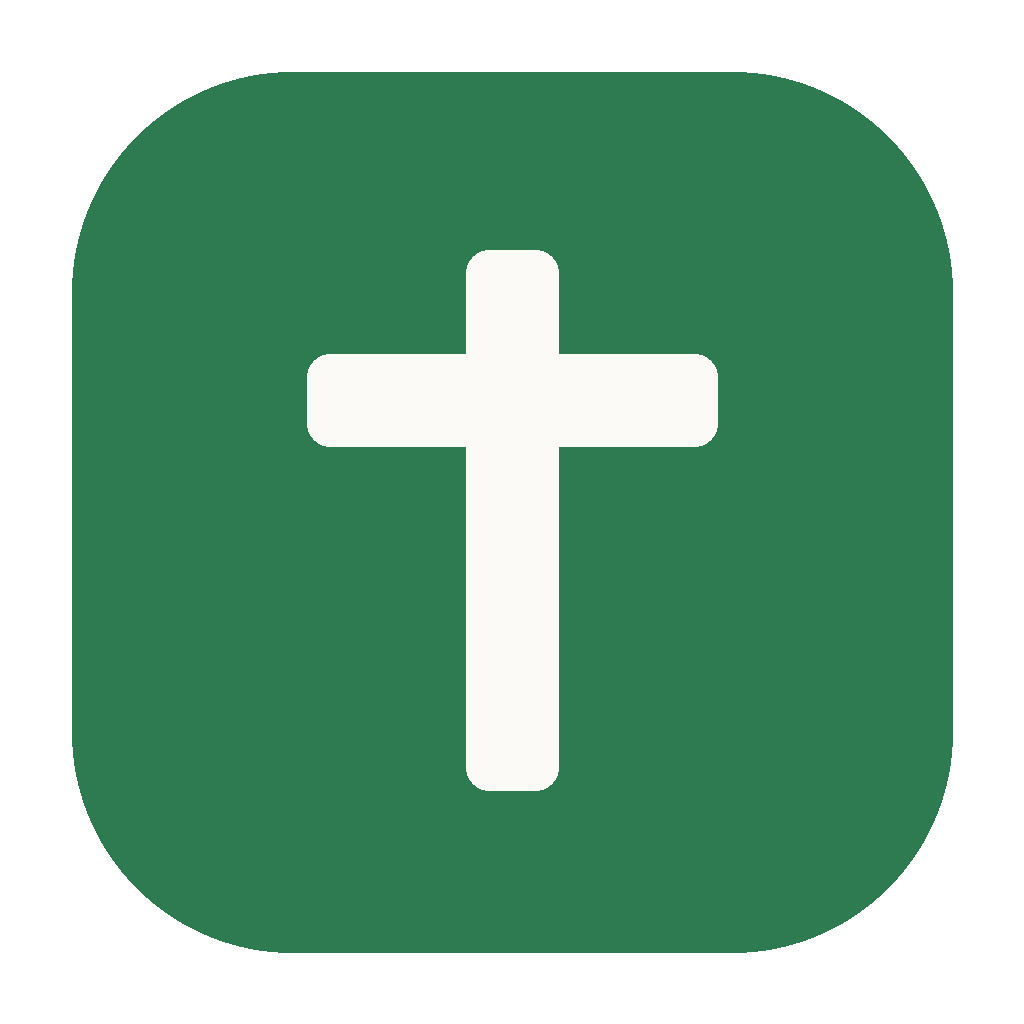
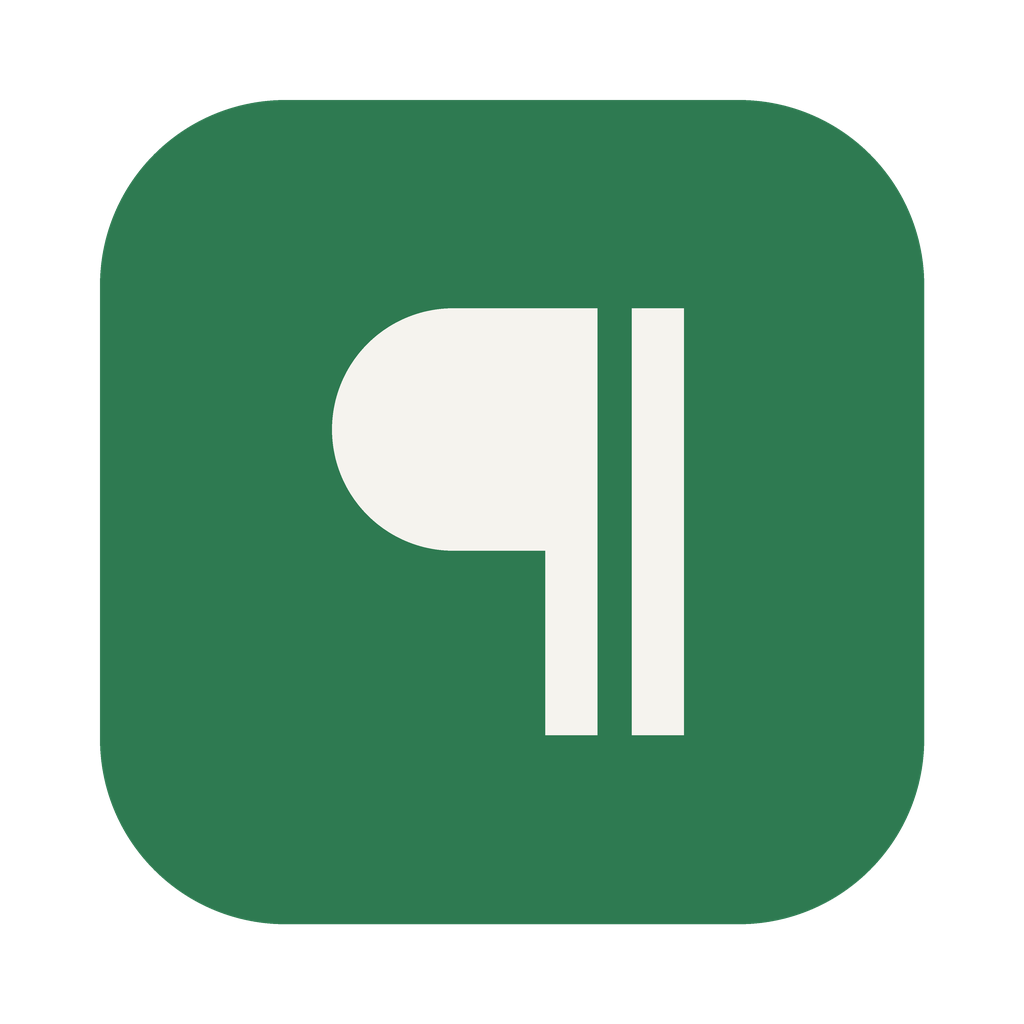
feat(marca): ícone e marca do Proper, o pilcrow das rubricas
A marca escolhida é o sinal ¶ dos livros de oração, em papel sobre o
verde litúrgico. make-icon.py gera icon.png (macOS, convertido em .icns
pelo electron-builder), icon.ico (Windows) e os PNGs do Linux a partir
da mesma geometria do SVG, com ajuste óptico de 1 % para o bojo não
parecer alto. O "P" do trilho e da tela Sobre virou a marca, que
acompanha a cor litúrgica do dia.

Claude-Session: https://claude.ai/code/session_01NddpYVr3KbPuWc3or8R7uW

Changed region(s): [[0.0625, 0.0625, 0.9375, 0.9375], [0.2812, 0.2188, 0.7188, 0.7812]]

diff --git a/apps/desktop/src/renderer/src/views/preferencias/AboutSection.vue b/apps/desktop/src/renderer/src/views/preferencias/AboutSection.vue
@@ -18,7 +18,11 @@ import LogsSection from './LogsSection.vue'
 import { openExternal } from './composables'
 import { normalizeApiBaseURL, validateApiBaseURL } from './format'
 
-const PLATFORM_NAMES: Record<AppInfo['platform'], string> = { darwin: 'macOS', win32: 'Windows', linux: 'Linux' }
+const PLATFORM_NAMES: Record<AppInfo['platform'], string> = {
+  darwin: 'macOS',
+  win32: 'Windows',
+  linux: 'Linux',
+}
 
 const app = useAppStore()
 const toasts = useToasts()
@@ -30,7 +34,9 @@ const apiError = ref<string | null>(null)
 let unsubscribe: (() => void) | null = null
 
 const legalBase = computed(() => (app.account.apiBaseURL || PREGAR_API_DEFAULT_URL).replace(/\/+$/, ''))
-const apiChanged = computed(() => normalizeApiBaseURL(apiDraft.value) !== normalizeApiBaseURL(app.settings.apiBaseURL))
+const apiChanged = computed(
+  () => normalizeApiBaseURL(apiDraft.value) !== normalizeApiBaseURL(app.settings.apiBaseURL),
+)
 const updateText = computed(() => {
   const status = update.value
   switch (status.state) {
@@ -94,12 +100,21 @@ onBeforeUnmount(() => unsubscribe?.())
 <template>
   <div class="section-stack">
     <div class="identity">
-      <div class="identity__mark" aria-hidden="true">P</div>
+      <svg class="identity__mark" viewBox="0 0 100 100" aria-hidden="true">
+        <rect width="100" height="100" rx="25" style="fill: var(--accent)" />
+        <g style="fill: var(--accent-contrast)" transform="translate(2.5 -1)">
+          <path d="M62 14H38a21 21 0 0 0 0 42h24z" />
+          <rect x="54" y="14" width="9" height="74" />
+          <rect x="69" y="14" width="9" height="74" />
+        </g>
+      </svg>
       <div>
         <h3 class="identity__name">Proper</h3>
         <p class="identity__version selectable">
           Versão {{ info?.version ?? '—' }}
-          <template v-if="info">· {{ PLATFORM_NAMES[info.platform] }} {{ info.arch }} · Electron {{ info.electron }}</template>
+          <template v-if="info"
+            >· {{ PLATFORM_NAMES[info.platform] }} {{ info.arch }} · Electron {{ info.electron }}</template
+          >
         </p>
         <p class="identity__tagline">Preparação de sermões com o calendário litúrgico. Caminho Anglicano.</p>
       </div>
@@ -145,13 +160,23 @@ onBeforeUnmount(() => unsubscribe?.())
     <PrefGroup label="Privacidade">
       <div class="links">
         <p class="links__text">
-          Seus sermões, a Biblioteca e as preferências ficam neste computador. Com as suas chaves, o texto vai direto ao provedor de IA; com a
-          assinatura, passa pelo servidor do Proper só para a revisão e não fica guardado.
+          Seus sermões, a Biblioteca e as preferências ficam neste computador. Com as suas chaves, o texto vai
+          direto ao provedor de IA; com a assinatura, passa pelo servidor do Proper só para a revisão e não
+          fica guardado.
         </p>
         <div class="links__row">
-          <PButton variant="link" compact @click="openExternal(`${legalBase}/legal/privacidade`)">Política de privacidade <ExternalLink :size="11" aria-hidden="true" /></PButton>
-          <PButton variant="link" compact @click="openExternal(`${legalBase}/legal/termos`)">Termos de uso <ExternalLink :size="11" aria-hidden="true" /></PButton>
-          <PButton v-if="info" variant="link" compact @click="invoke('app:showItemInFolder', { path: info.userDataPath })">
+          <PButton variant="link" compact @click="openExternal(`${legalBase}/legal/privacidade`)"
+            >Política de privacidade <ExternalLink :size="11" aria-hidden="true"
+          /></PButton>
+          <PButton variant="link" compact @click="openExternal(`${legalBase}/legal/termos`)"
+            >Termos de uso <ExternalLink :size="11" aria-hidden="true"
+          /></PButton>
+          <PButton
+            v-if="info"
+            variant="link"
+            compact
+            @click="invoke('app:showItemInFolder', { path: info.userDataPath })"
+          >
             Pasta de dados do Proper <FolderOpen :size="11" aria-hidden="true" />
           </PButton>
         </div>
@@ -168,7 +193,9 @@ onBeforeUnmount(() => unsubscribe?.())
     <details class="advanced">
       <summary>Avançado</summary>
       <div class="advanced__body">
-        <Notice tone="warning" compact>Só mude o endereço se o suporte do Proper pedir. A conta e a assinatura usam este servidor.</Notice>
+        <Notice tone="warning" compact
+          >Só mude o endereço se o suporte do Proper pedir. A conta e a assinatura usam este servidor.</Notice
+        >
         <form class="advanced__form" novalidate @submit.prevent="saveApi">
           <label for="api-base">Endereço da API do Proper</label>
           <div class="advanced__inline">
@@ -182,10 +209,14 @@ onBeforeUnmount(() => unsubscribe?.())
               aria-describedby="api-base-help"
             />
             <PButton type="submit" :disabled="!apiChanged">Salvar</PButton>
-            <PButton variant="ghost" :disabled="!app.settings.apiBaseURL" @click="resetApi">Usar o padrão</PButton>
+            <PButton variant="ghost" :disabled="!app.settings.apiBaseURL" @click="resetApi"
+              >Usar o padrão</PButton
+            >
           </div>
           <span v-if="apiError" id="api-base-help" class="advanced__error" role="alert">{{ apiError }}</span>
-          <span v-else id="api-base-help" class="advanced__hint">Vazio usa {{ PREGAR_API_DEFAULT_URL }}. Precisa começar com https://.</span>
+          <span v-else id="api-base-help" class="advanced__hint"
+            >Vazio usa {{ PREGAR_API_DEFAULT_URL }}. Precisa começar com https://.</span
+          >
         </form>
       </div>
     </details>
@@ -201,14 +232,7 @@ onBeforeUnmount(() => unsubscribe?.())
 .identity__mark {
   width: 56px;
   height: 56px;
-  border-radius: 14px;
-  display: grid;
-  place-items: center;
-  font-family: var(--font-serif);
-  font-size: 30px;
-  font-weight: 600;
-  color: var(--accent-contrast);
-  background: var(--accent);
+  flex: none;
 }
 .identity__name {
   margin: 0;

diff --git a/apps/desktop/src/renderer/src/views/mesa/AppRail.vue b/apps/desktop/src/renderer/src/views/mesa/AppRail.vue
@@ -77,7 +77,16 @@ function open(kind: WindowKind): void {
 
 <template>
   <nav class="rail" :class="{ 'rail--compact': compact }" aria-label="Áreas do Proper" data-tour="rail">
-    <div class="rail__mark drag-region" aria-hidden="true"><span class="serif">P</span></div>
+    <div class="rail__mark drag-region" aria-hidden="true">
+      <svg class="rail__badge" viewBox="0 0 100 100" aria-hidden="true">
+        <rect width="100" height="100" rx="30" style="fill: var(--accent)" />
+        <g style="fill: var(--accent-contrast)" transform="translate(2.5 -1)">
+          <path d="M62 14H38a21 21 0 0 0 0 42h24z" />
+          <rect x="54" y="14" width="9" height="74" />
+          <rect x="69" y="14" width="9" height="74" />
+        </g>
+      </svg>
+    </div>
     <button
       v-for="area in AREAS"
       :key="area.kind"
@@ -202,22 +211,16 @@ function open(kind: WindowKind): void {
   margin-bottom: 8px;
   padding-top: var(--window-controls-mesa-inset, 0px);
 }
-.rail__mark span {
+/* A marca do Proper: o pilcrow das rubricas, em papel sobre a cor litúrgica do dia. */
+.rail__badge {
   width: 30px;
   height: 30px;
-  border-radius: 9px;
-  display: grid;
-  place-items: center;
-  font-size: 17px;
-  font-weight: 600;
-  color: var(--accent-contrast);
-  background: var(--accent);
-  transition: background 0.3s;
+  display: block;
+  transition: fill 0.3s;
 }
-.rail--compact .rail__mark span {
+.rail--compact .rail__badge {
   width: 28px;
   height: 28px;
-  font-size: 16px;
 }
 .rail__item {
   width: 56px;

diff --git a/apps/desktop/resources/make-icon.py b/apps/desktop/resources/make-icon.py
@@ -1,32 +1,63 @@
-"""Gera os ícones do app (PNG 1024, ICO para Windows e PNGs por tamanho para Linux)."""
+"""Gera os ícones do app a partir da marca do Proper: o pilcrow (¶), o sinal das rubricas dos
+livros de oração, em papel sobre o verde litúrgico. Saída: icon.png (1024, usado no macOS, onde o
+electron-builder converte para .icns), icon.ico (Windows) e icons/<n>x<n>.png (Linux).
+
+A geometria é a mesma do SVG em AppRail.vue e AboutSection.vue (caixa de 100 unidades):
+bojo = retângulo (38,14)-(62,56) + semidisco à esquerda com centro (38,35) e raio 21;
+hastes = (54,14)-(63,88) e (69,14)-(78,88). Desenha em 4096 px e reduz, para bordas limpas.
+
+Uso: python3 make-icon.py   (precisa do Pillow)
+"""
 from PIL import Image, ImageDraw
 import os
 
 SIZE = 1024
+SUPERSAMPLE = 4
 GREEN = (46, 122, 81, 255)
-PAPER = (251, 250, 247, 255)
+PAPER = (245, 243, 238, 255)
 
-def draw(size: int) -> Image.Image:
-    scale = size / SIZE
-    image = Image.new('RGBA', (size, size), (0, 0, 0, 0))
+# Modelo da Apple para ícones do macOS: tile de 824 px centrado na tela de 1024, cantos de 185 px.
+TILE = 824
+RADIUS = 185
+MARK_SCALE = 0.70  # a caixa de 100 unidades da marca ocupa 70 % do tile
+
+
+def draw_master() -> Image.Image:
+    big = SIZE * SUPERSAMPLE
+    image = Image.new('RGBA', (big, big), (0, 0, 0, 0))
     canvas = ImageDraw.Draw(image)
-    margin = 72 * scale
-    radius = 220 * scale
-    canvas.rounded_rectangle([margin, margin, size - margin, size - margin], radius=radius, fill=GREEN)
-    # Cruz latina centralizada.
-    bar = 92 * scale
-    vertical_top, vertical_bottom = 250 * scale, 790 * scale
-    horizontal_y = 400 * scale
-    horizontal_half = 205 * scale
-    cx = size / 2
-    canvas.rounded_rectangle([cx - bar / 2, vertical_top, cx + bar / 2, vertical_bottom], radius=bar / 4, fill=PAPER)
-    canvas.rounded_rectangle([cx - horizontal_half, horizontal_y - bar / 2, cx + horizontal_half, horizontal_y + bar / 2], radius=bar / 4, fill=PAPER)
-    return image
+    s = SUPERSAMPLE
+    margin = (SIZE - TILE) / 2 * s
+    canvas.rounded_rectangle([margin, margin, big - margin, big - margin], radius=RADIUS * s, fill=GREEN)
 
-here = os.path.dirname(os.path.abspath(__file__))
-resources = here
-os.makedirs(os.path.join(resources, 'icons'), exist_ok=True)
-draw(SIZE).save(os.path.join(resources, 'icon.png'))
-draw(256).save(os.path.join(resources, 'icon.ico'), sizes=[(16, 16), (24, 24), (32, 32), (48, 48), (64, 64), (128, 128), (256, 256)])
-for size in (16, 32, 48, 64, 128, 256, 512):
-    draw(size).save(os.path.join(resources, 'icons', f'{size}x{size}.png'))
+    unit = TILE * MARK_SCALE / 100 * s
+    # Centraliza a caixa do glifo (x 17..78, y 14..88) no tile e aplica um ajuste óptico pequeno:
+    # o bojo deixa a massa da marca acima e à direita do centro, então ela desce 1 % e vai 0,4 % à esquerda.
+    ox = margin + (TILE * s - 100 * unit) / 2 + 1.8 * unit
+    oy = margin + (TILE * s - 100 * unit) / 2 + 0.7 * unit
+
+    def box(x1, y1, x2, y2):
+        return [ox + x1 * unit, oy + y1 * unit, ox + x2 * unit, oy + y2 * unit]
+
+    canvas.rectangle(box(38, 14, 62, 56), fill=PAPER)
+    canvas.ellipse(box(17, 14, 59, 56), fill=PAPER)
+    canvas.rectangle(box(54, 14, 63, 88), fill=PAPER)
+    canvas.rectangle(box(69, 14, 78, 88), fill=PAPER)
+    return image.resize((SIZE, SIZE), Image.LANCZOS)
+
+
+def main() -> None:
+    here = os.path.dirname(os.path.abspath(__file__))
+    os.makedirs(os.path.join(here, 'icons'), exist_ok=True)
+    master = draw_master()
+    master.save(os.path.join(here, 'icon.png'))
+    master.resize((256, 256), Image.LANCZOS).save(
+        os.path.join(here, 'icon.ico'),
+        sizes=[(16, 16), (24, 24), (32, 32), (48, 48), (64, 64), (128, 128), (256, 256)],
+    )
+    for size in (16, 32, 48, 64, 128, 256, 512):
+        master.resize((size, size), Image.LANCZOS).save(os.path.join(here, 'icons', f'{size}x{size}.png'))
+
+
+if __name__ == '__main__':
+    main()
